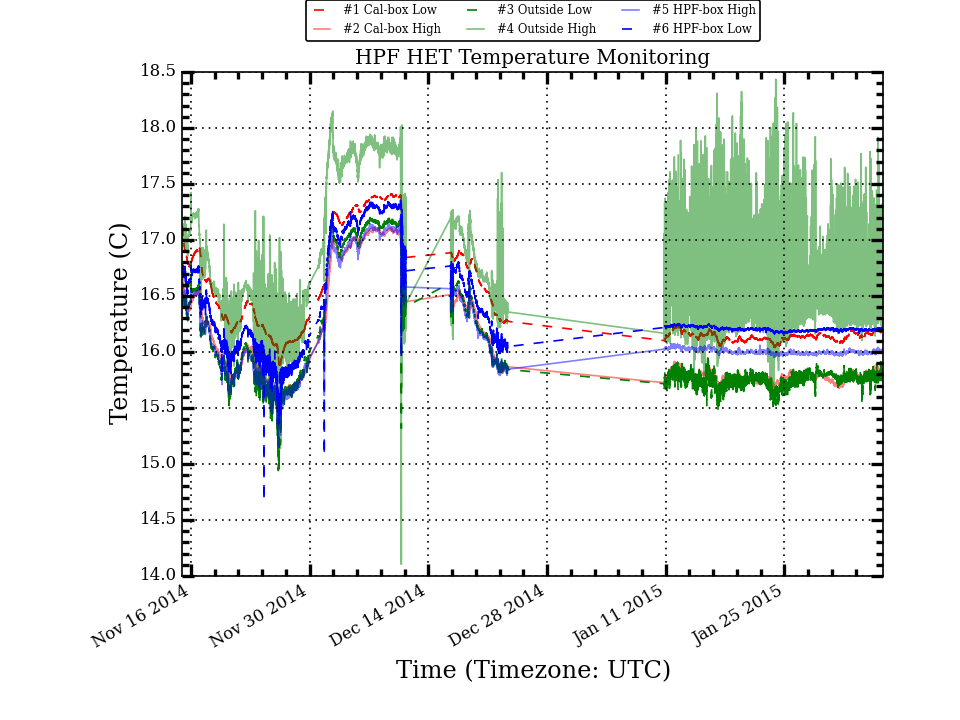
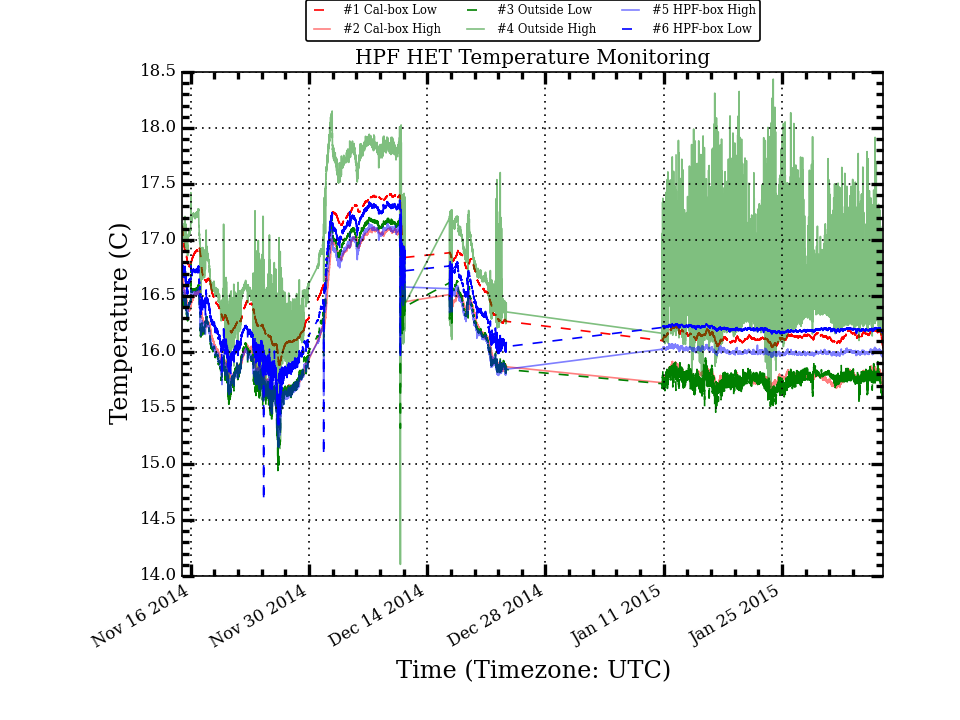
Update HPF Temp Plots

diff --git a/research/hpf_temps/plots/LakeShoreLogTotal_stats.html b/research/hpf_temps/plots/LakeShoreLogTotal_stats.html
@@ -10,44 +10,44 @@
  </TR>
  <TR>
   <TD>Cal_Low</TD>
-  <TD>16.440</TD>
+  <TD>16.438</TD>
   <TD>0.432</TD>
-  <TD>16.193</TD>
+  <TD>16.192</TD>
   <TD>17.410</TD>
   <TD>15.840</TD>
   <TD>1.570</TD>
  </TR>
  <TR>
   <TD>Cal_High</TD>
-  <TD>16.075</TD>
+  <TD>16.073</TD>
   <TD>0.454</TD>
-  <TD>15.834</TD>
+  <TD>15.833</TD>
   <TD>17.114</TD>
   <TD>15.410</TD>
   <TD>1.704</TD>
  </TR>
  <TR>
   <TD>Out_Low</TD>
-  <TD>16.065</TD>
-  <TD>0.495</TD>
-  <TD>15.809</TD>
+  <TD>16.062</TD>
+  <TD>0.494</TD>
+  <TD>15.808</TD>
   <TD>17.201</TD>
   <TD>14.942</TD>
   <TD>2.259</TD>
  </TR>
  <TR>
   <TD>Out_High</TD>
-  <TD>16.764</TD>
+  <TD>16.761</TD>
   <TD>0.545</TD>
-  <TD>16.604</TD>
+  <TD>16.600</TD>
   <TD>18.436</TD>
   <TD>14.104</TD>
   <TD>4.332</TD>
  </TR>
  <TR>
   <TD>HPF_High</TD>
-  <TD>16.165</TD>
-  <TD>0.412</TD>
+  <TD>16.164</TD>
+  <TD>0.411</TD>
   <TD>16.007</TD>
   <TD>17.147</TD>
   <TD>15.149</TD>
@@ -55,8 +55,8 @@
  </TR>
  <TR>
   <TD>HPF_Low</TD>
-  <TD>16.367</TD>
-  <TD>0.409</TD>
+  <TD>16.366</TD>
+  <TD>0.408</TD>
   <TD>16.207</TD>
   <TD>17.356</TD>
   <TD>14.668</TD>
